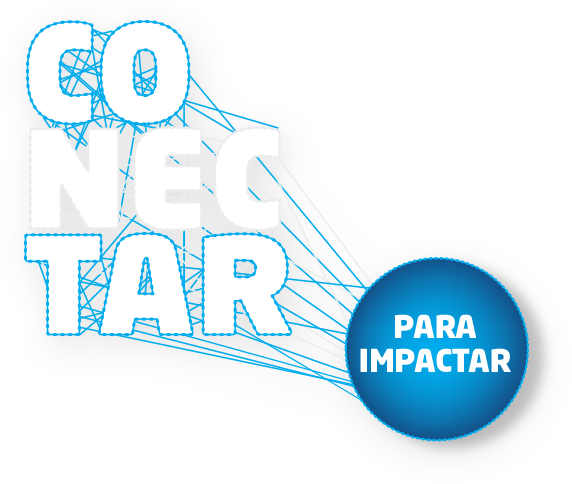
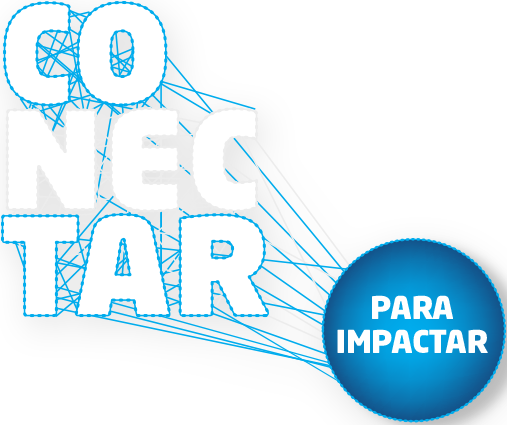
fixes arg 4 img

diff --git a/argentina/css/main.css b/argentina/css/main.css
@@ -76,7 +76,7 @@ header .logo img {
 .left img {
 	width: 45em;
 	z-index: 1;
-	margin-top: 35px;
+	margin-top: 50px;
 }
 
 .buttons {
@@ -116,8 +116,8 @@ width: 100%;
 	
 z-index: -1;
 	
--webkit-clip-path: polygon(100% 0, 100% 79%, 0 53%, 0 41%, 64% 0);
-clip-path: polygon(100% 0, 100% 79%, 0 53%, 0 41%, 64% 0);
+-webkit-clip-path: polygon(100% 0, 100% 81%, 0 60%, 0 48%, 66% 0);
+clip-path: polygon(100% 0, 100% 81%, 0 60%, 0 48%, 66% 0);
 	
 padding: 0;
 	
